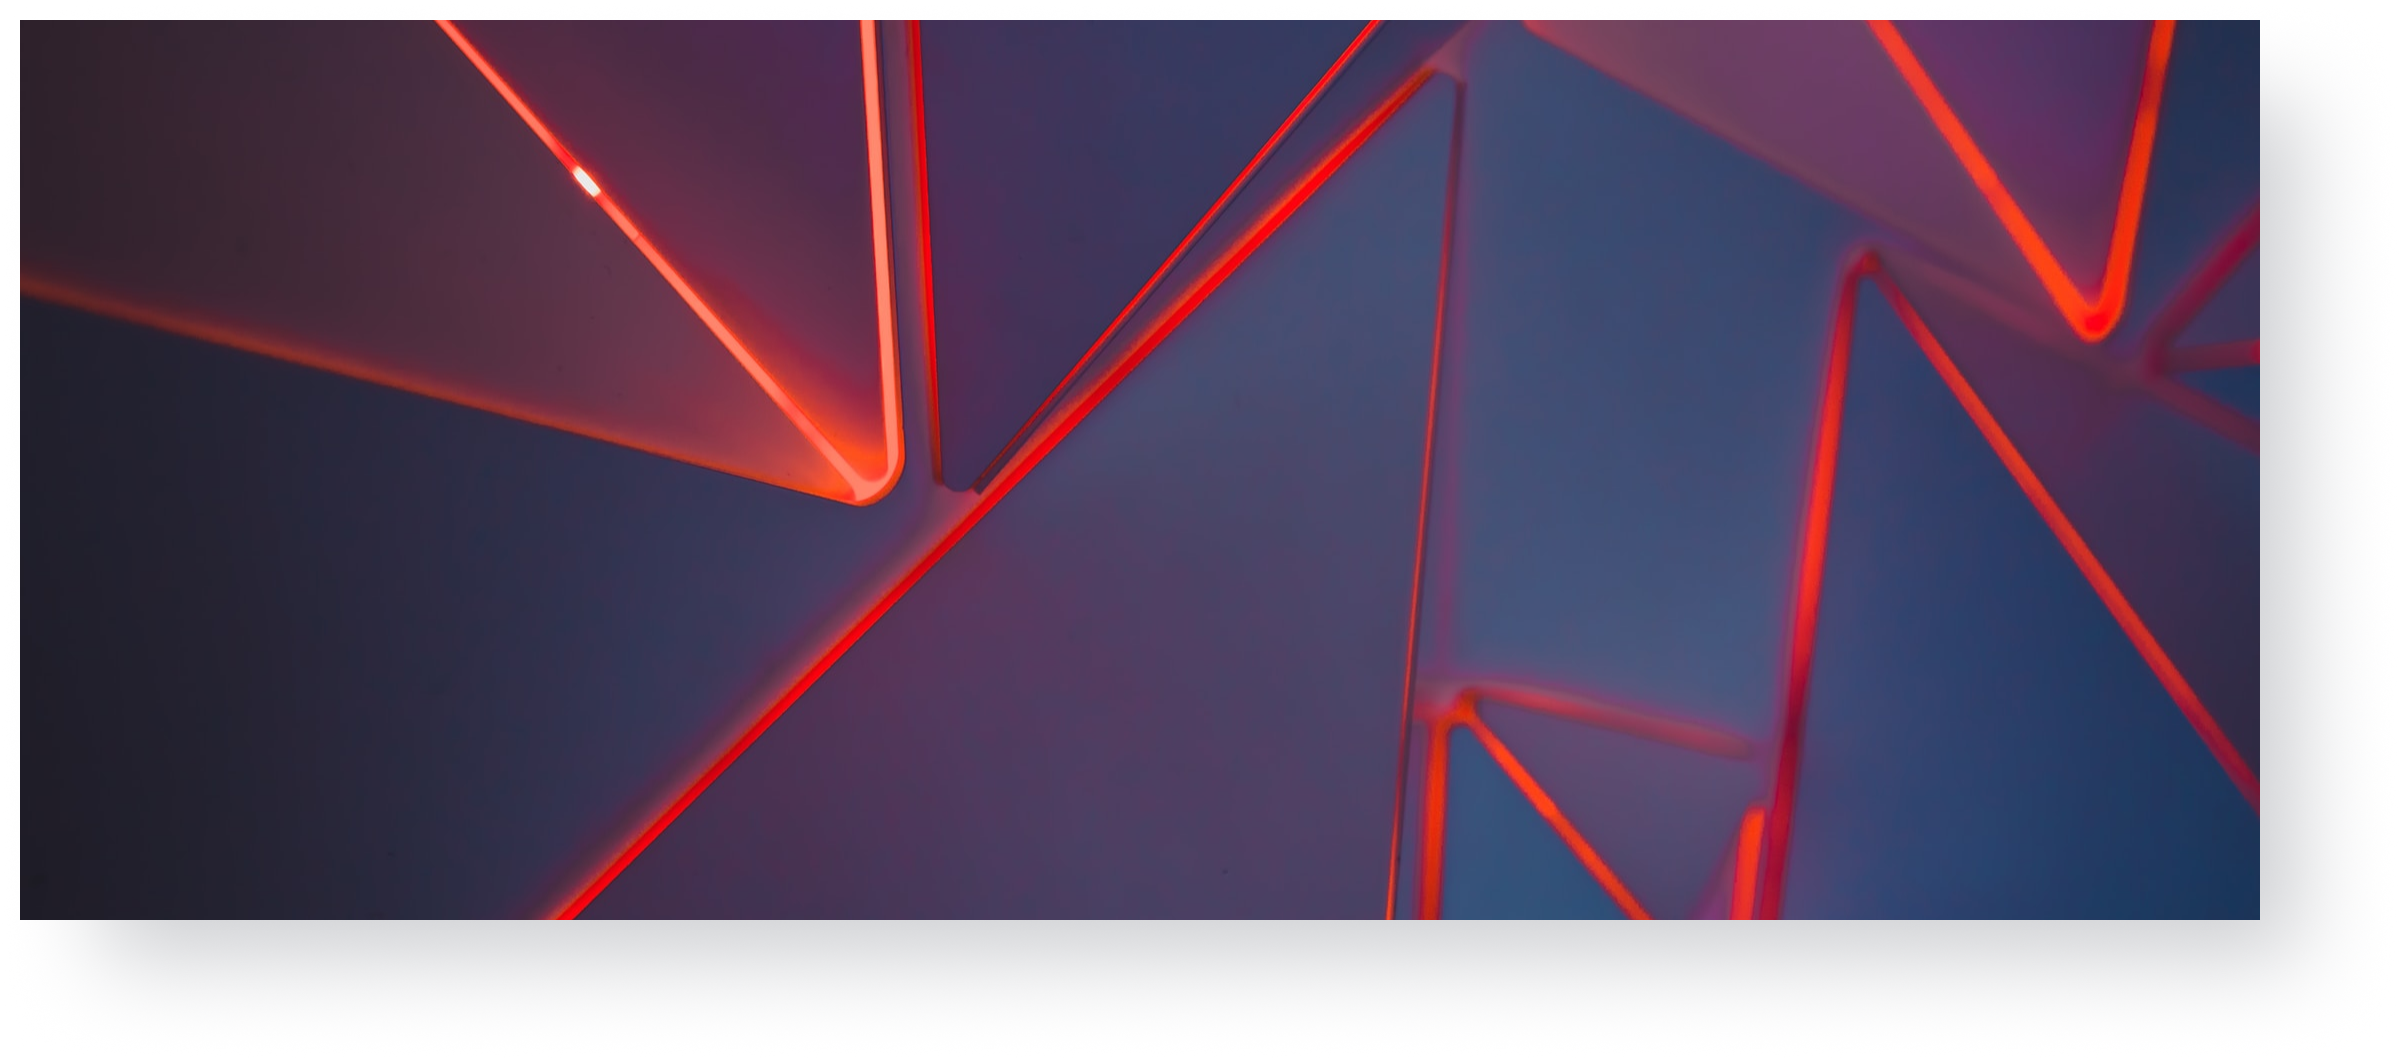
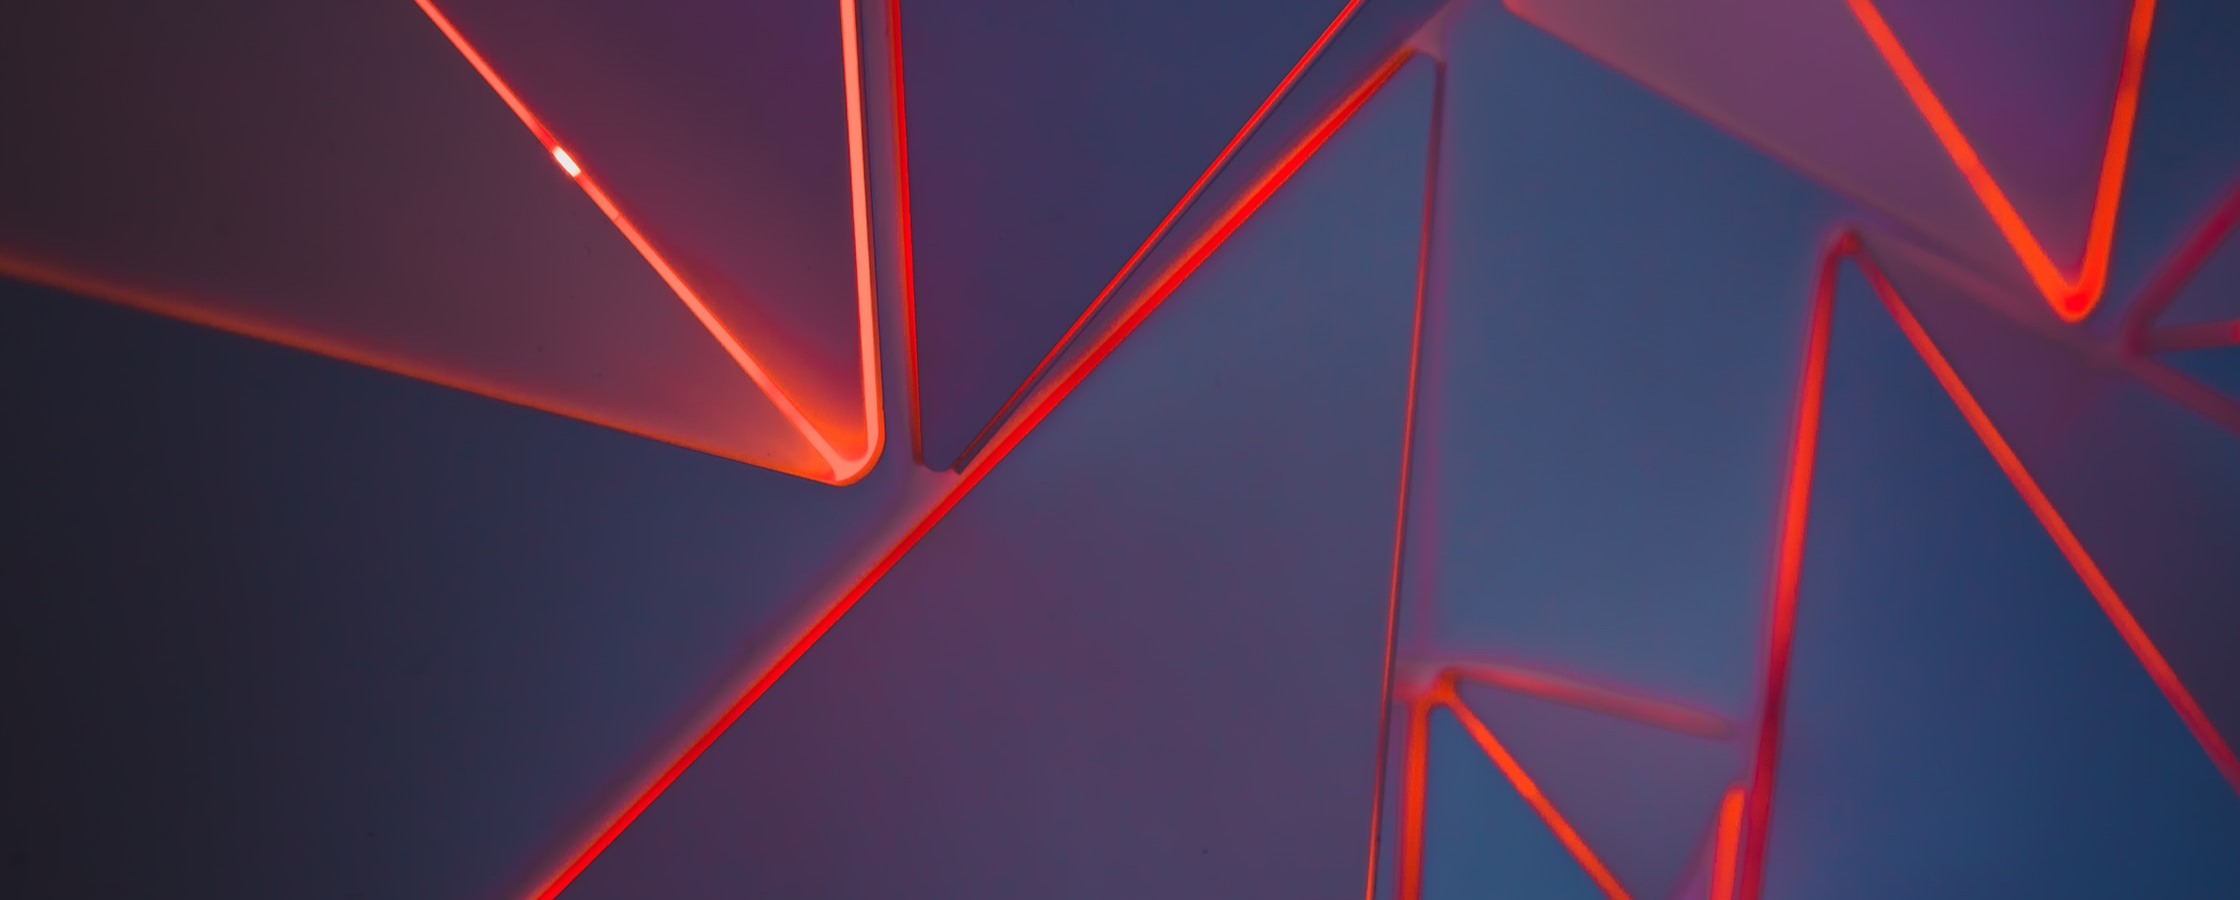
[2022.02.08] homepage index - #1 로고변경 / #8 썸네일 수정 및 shadow 추가 / #6 버튼 간격 유니코드 추가

diff --git a/components/pages/main/IssueSlider.vue b/components/pages/main/IssueSlider.vue
@@ -4,7 +4,7 @@
       <span class="gl-2">Monthly Issue</span>
       <span class="gl-2">December@2021</span>
       <span class="gl-2">
-        <nuxt-link to="/monthly-issue">View List </nuxt-link>
+        <nuxt-link to="/monthly-issue">View List&nbsp;&nbsp;</nuxt-link>
       </span>
     </div>
     <div v-if="list.length > 0" ref="issue" class="issue">
@@ -38,9 +38,9 @@
               ←
             </button>
             <div class="number">
-              <span class="cur">{{ activeIndex + 1 }}</span>
+              <sup class="cur">{{ activeIndex + 1 }}</sup>
               /
-              <span class="total">{{ list.length }}</span>
+              <sub class="total">{{ list.length }}</sub>
             </div>
             <button
               class="next"
@@ -285,6 +285,7 @@
       position: relative;
       overflow: hidden;
       height: 990px;
+      box-shadow: 30px 30px 50px -10px rgba(0,0,0,0.2);
       > div {
         position: absolute;
         top: 0;
@@ -304,6 +305,9 @@
         display: flex;
         justify-content: flex-end;
         align-items: center;
+        button{
+          font-family: 'Inter';
+        }
       }
       .cur-page {
         font-size: 50px;

diff --git a/components/layouts/Header.vue b/components/layouts/Header.vue
@@ -3,7 +3,7 @@
     <div class="header-top">
       <h1 class="b-logo gl-2">
         <nuxt-link to="/">
-          <span>kakaobrain</span>
+          <img src="@/assets/images/logo.png">
         </nuxt-link>
       </h1>
       <div class="header-con">
@@ -54,6 +54,10 @@
     }
     .b-logo {
       font-weight: 900;
+      img{
+        width:80px;
+        height:20px;
+      }
     }
     &-con {
       margin-left: 20px;
@@ -75,11 +79,27 @@
     .header-item {
       font-size: 22px;
     }
+    .header {
+      .b-logo {
+        img{
+          width:108px;
+          height:27px;
+        }
+      }
+    }
   }
   @include pc-4k {
     .header,
     .header-item {
       font-size: 34px;
+    }
+    .header {
+      .b-logo {
+        img{
+          width:176px;
+          height:44px;
+        }
+      }
     }
   }
   @include tablet {
@@ -87,6 +107,14 @@
     .header-item {
       top: 16px;
       font-size: 16px;
+    }
+    .header {
+      .b-logo {
+        img{
+          width:84px;
+          height:21px;
+        }
+      }
     }
   }
   @include mobile {

diff --git a/components/elements/card/InnovationCard.vue b/components/elements/card/InnovationCard.vue
@@ -78,7 +78,7 @@
     min-width: 300px;
     height: 700px;
     padding: 20px;
-    box-shadow: 30px 30px 50px -10px #cfd0d3;
+    box-shadow: 30px 30px 50px -10px rgba(0,0,0,0.2);
     background-color: $gray-0;
     color: $gray-9;
     box-sizing: border-box;

diff --git a/components/pages/main/Content.vue b/components/pages/main/Content.vue
@@ -83,6 +83,7 @@
     flex: 1;
   }
   .thumbnail {
+      box-shadow: 30px 30px 50px -10px rgba(0,0,0,0.2);
     img {
       width: 100%;
     }
